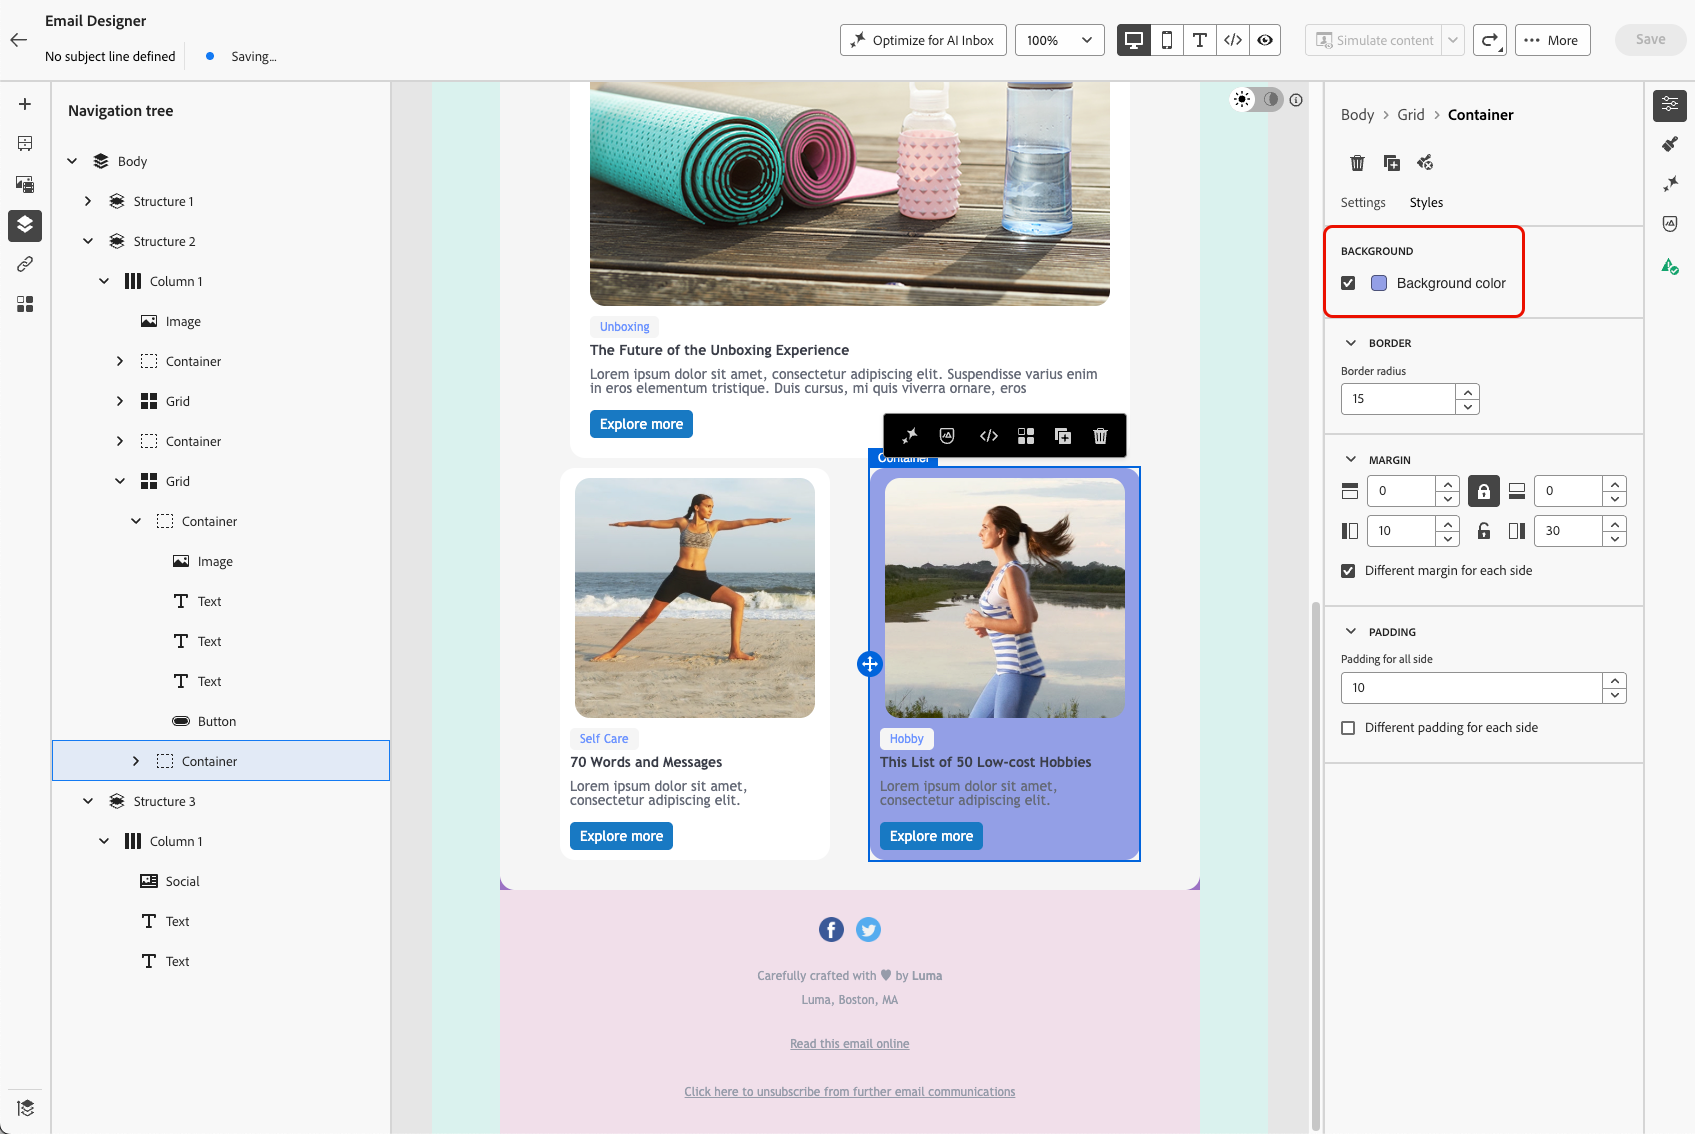
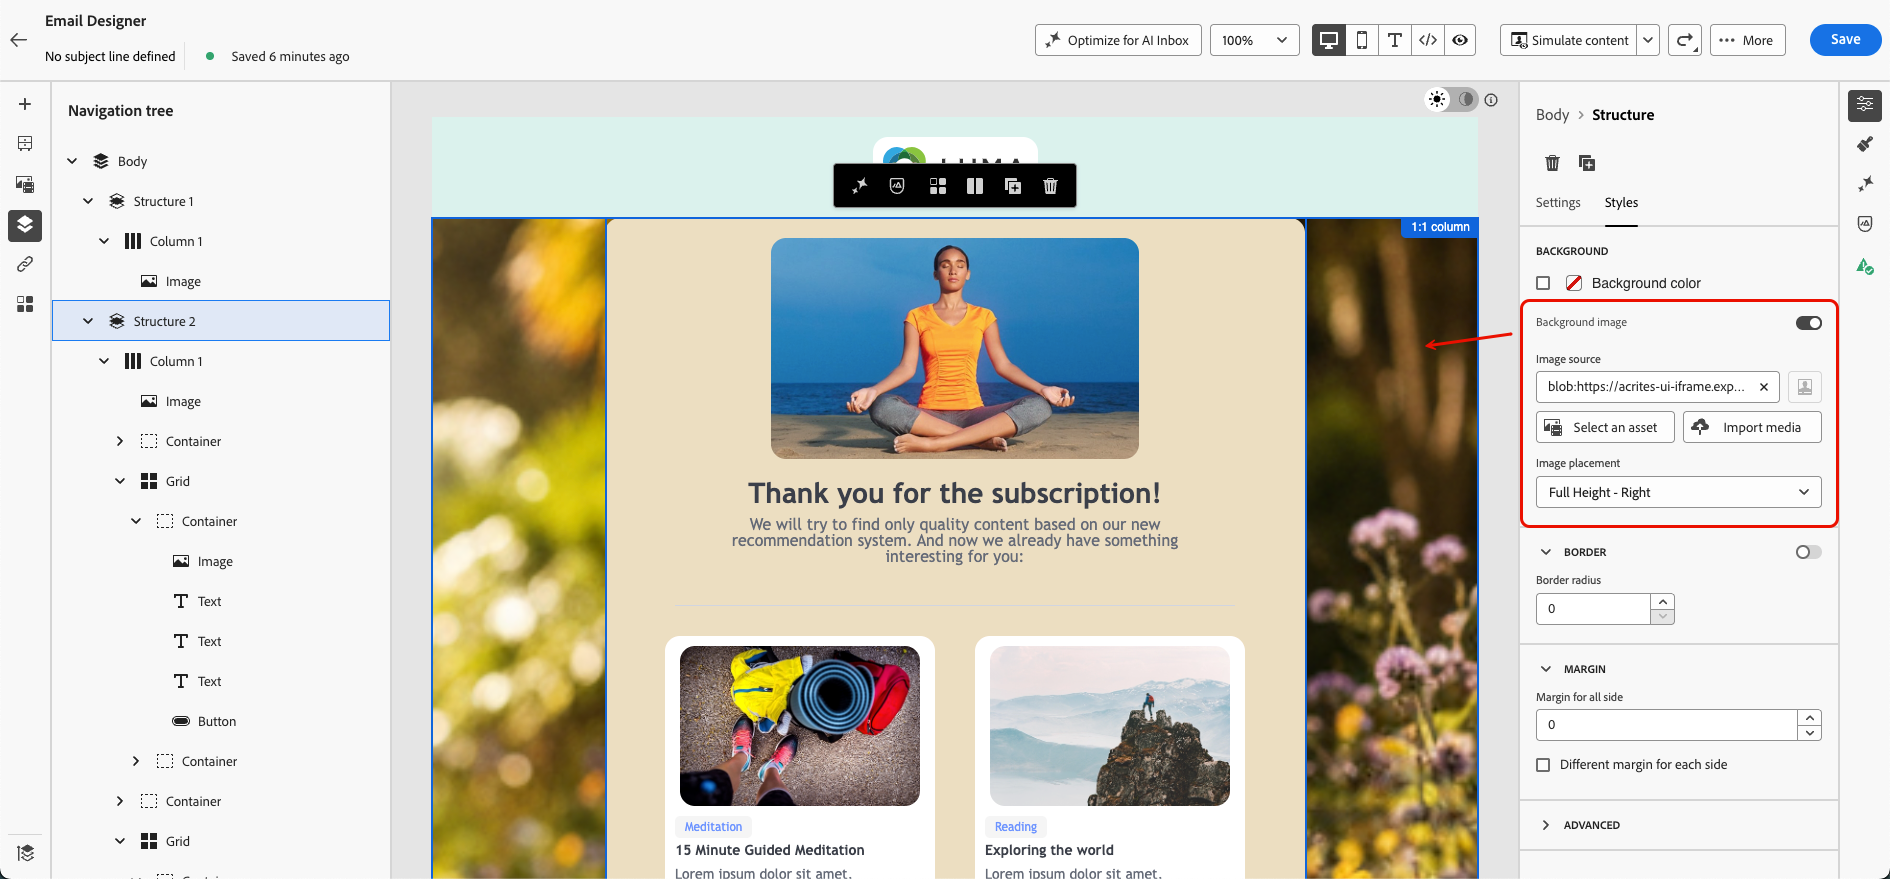
Background updated screenshots

diff --git a/help/using/email/backgrounds.md b/help/using/email/backgrounds.md
@@ -71,8 +71,6 @@ Below are the available background settings that you can use.
     >
     >In that case, make sure you do not set a viewport background color as it may hide the structure background colors.
 
-    ![](assets/background_4.png)
-
 1. Set a **[!UICONTROL Background image]** for the content of a structure component.
 
     >[!NOTE]
@@ -91,6 +89,8 @@ Below are the available background settings that you can use.
     * **[!UICONTROL Repeat]** - Tiles the image at its original size to fill the container.
     * **[!UICONTROL Left]**, **[!UICONTROL Right]**, **[!UICONTROL Center]**, **[!UICONTROL Top]**, **[!UICONTROL Bottom]** - Positions the image at its original size, anchored to the corresponding edge or center of the container.
 
+    ![](assets/background_4.png)
+
     >[!NOTE]
     >
     >**[!UICONTROL Full Width - Top]**, **[!UICONTROL Full Width - Bottom]**, **[!UICONTROL Full Height - Left]**, and **[!UICONTROL Full Height - Right]** give you more control over which part of the image stays in view when it doesn't match the structure's proportions, compared to using **[!UICONTROL Fit]**, **[!UICONTROL Full Width]**, or **[!UICONTROL Full Height]** alone.
@@ -104,5 +104,7 @@ Below are the available background settings that you can use.
     >This is the most common use case. Adobe recommends setting background colors at the column level as this allows for more flexibility when editing the whole email content.
 
     You can also set a background image at the column level, but this is rarely used.
+
+![](assets/background_6.png)
 
 {{$include /help/_includes/do-not-localize/email/ai-augmented-backgrounds.md}}
